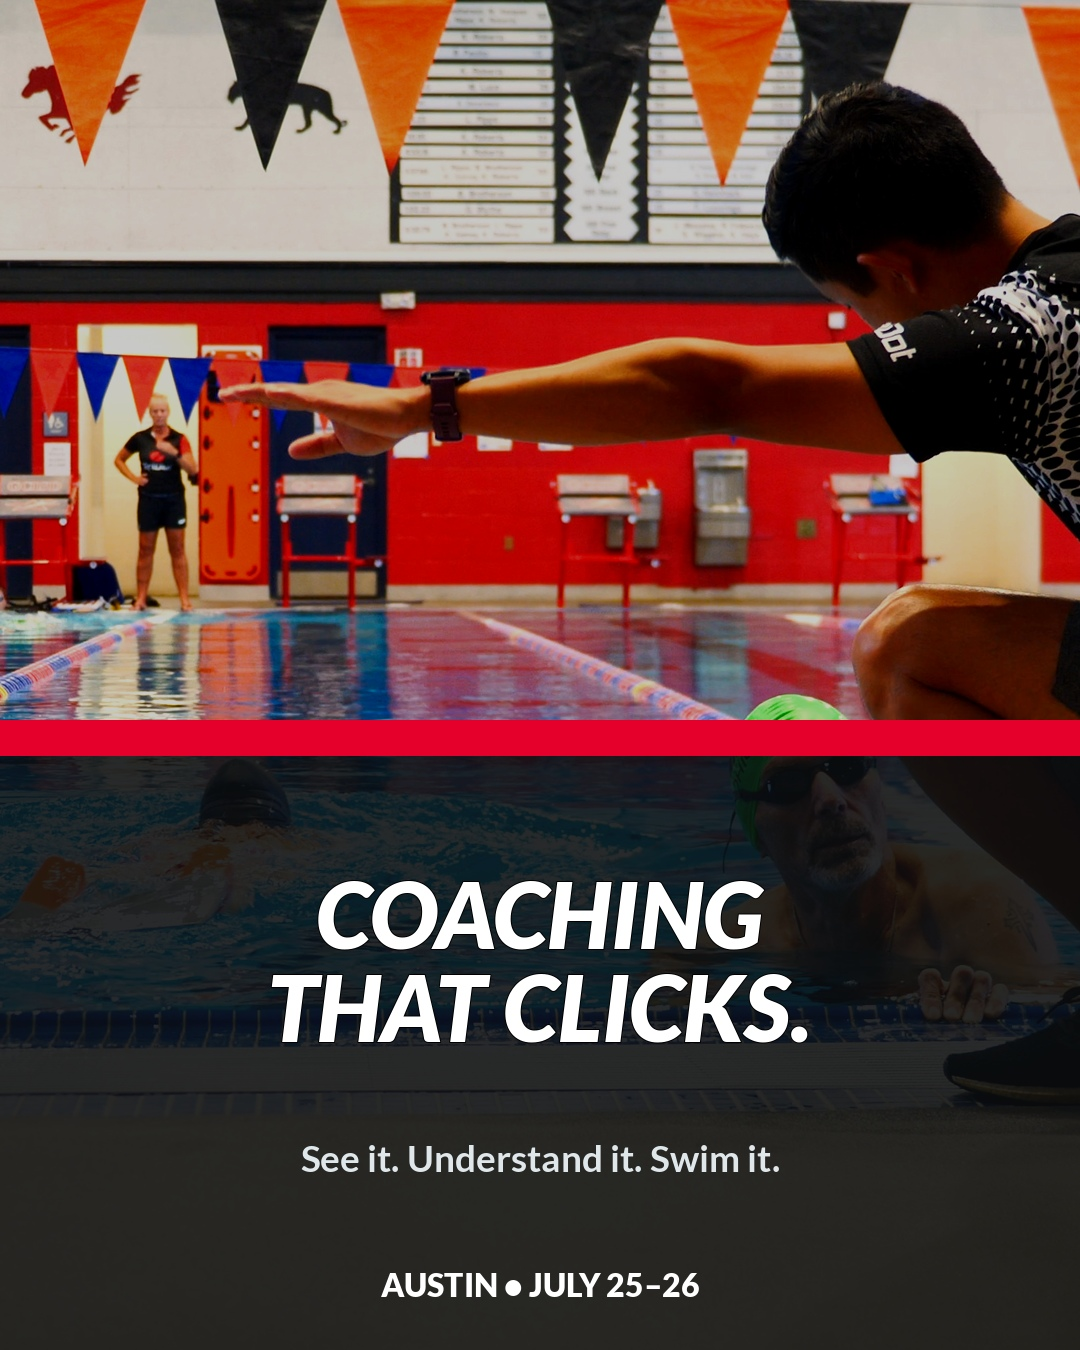
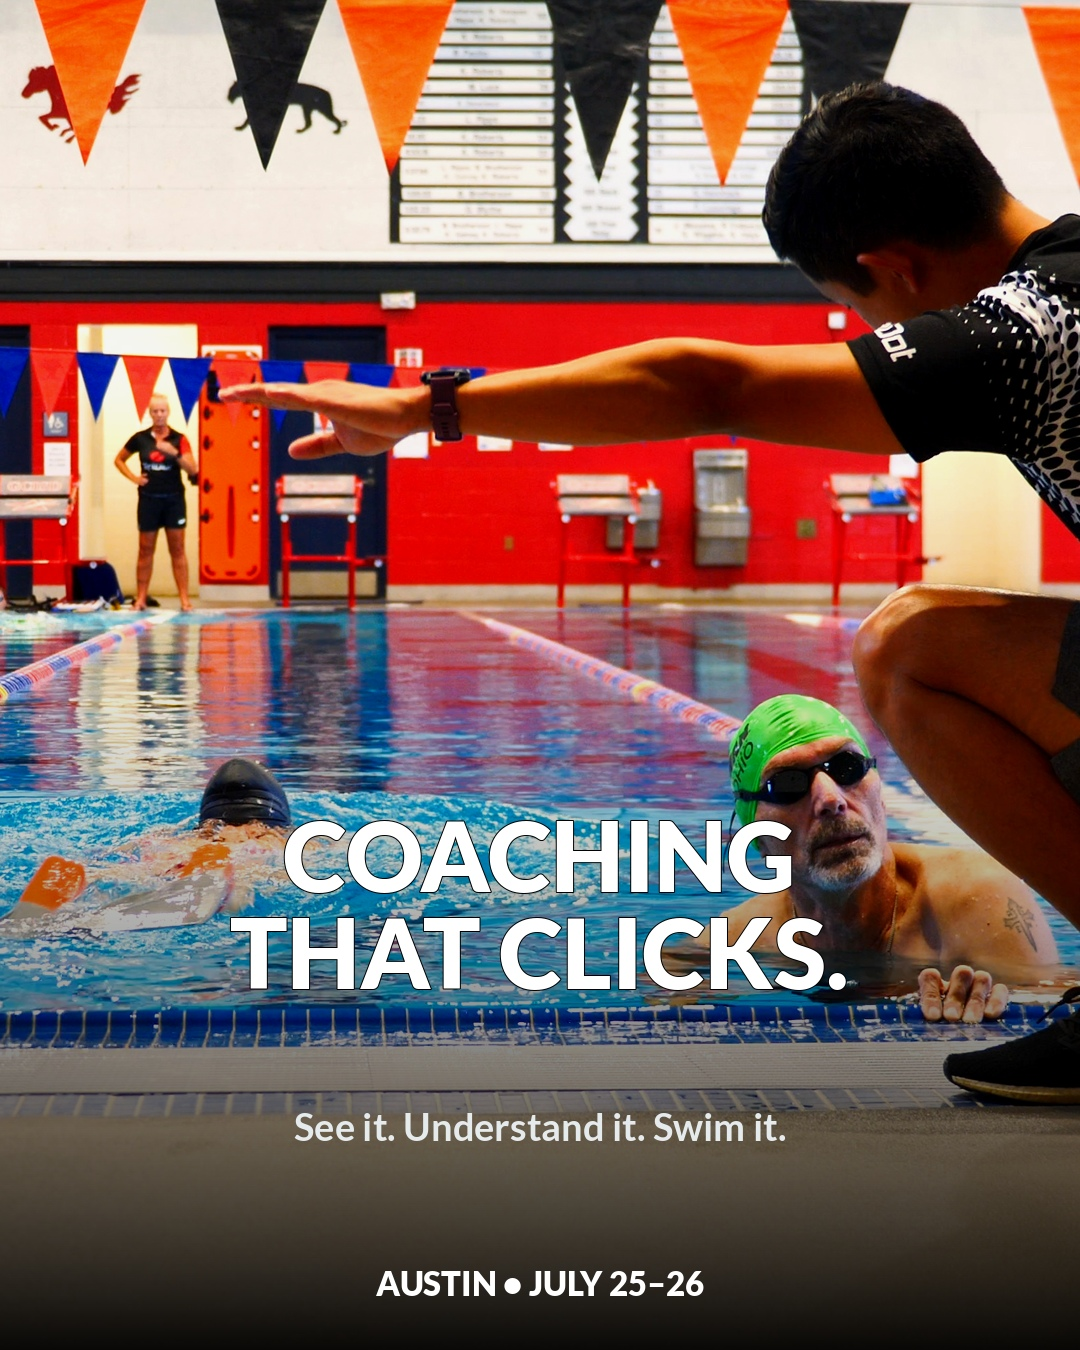
Refine Austin social graphics with natural dark gradients

diff --git a/austin-pool-school-review/index.html b/austin-pool-school-review/index.html
@@ -15,5 +15,5 @@ const posts=[
 ['08-detail-matters.jpg','VALUE','The details make the difference','Small technique changes can lead to meaningful progress. Get focused coaching and drills designed to help you apply it back in your own training.'],
 ['09-personal-feedback.jpg','VALUE','Real-time feedback','See it. Understand it. Practice it. Bring your swim questions to Austin and leave with practical tools for your next session.'],
 ['10-austin-register-now.jpg','EVENT PROMO','Austin Pool School: Register now','July 25–26, 2026 · Austin Aquatics and Sports Academy · $599\n\nYour next opportunity to break out of the dreaded swim plateau starts here. Register now.']
-];let i=0;const $=id=>document.getElementById(id);function render(){let p=posts[i];$('title').textContent=`Post ${i+1} of ${posts.length}`;$('graphic').src='./assets/'+p[0]+'?v=logo-free-20260710';$('headline').textContent=p[2];$('caption').textContent=p[3];$('type').textContent=p[1];$('prev').disabled=i===0;$('next').disabled=i===posts.length-1;$('thumbs').innerHTML=posts.map((x,n)=>`<button class="thumb ${n===i?'active':''}" aria-label="View post ${n+1}" onclick="go(${n})"><img src="./assets/${x[0]}?v=logo-free-20260710"></button>`).join('')};function go(n){i=n;render()}$('prev').onclick=()=>go(i-1);$('next').onclick=()=>go(i+1);document.addEventListener('keydown',e=>{if(e.key==='ArrowLeft'&&i)go(i-1);if(e.key==='ArrowRight'&&i<9)go(i+1)});render();
+];let i=0;const $=id=>document.getElementById(id);function render(){let p=posts[i];$('title').textContent=`Post ${i+1} of ${posts.length}`;$('graphic').src='./assets/'+p[0]+'?v=gradient-20260710';$('headline').textContent=p[2];$('caption').textContent=p[3];$('type').textContent=p[1];$('prev').disabled=i===0;$('next').disabled=i===posts.length-1;$('thumbs').innerHTML=posts.map((x,n)=>`<button class="thumb ${n===i?'active':''}" aria-label="View post ${n+1}" onclick="go(${n})"><img src="./assets/${x[0]}?v=gradient-20260710"></button>`).join('')};function go(n){i=n;render()}$('prev').onclick=()=>go(i-1);$('next').onclick=()=>go(i+1);document.addEventListener('keydown',e=>{if(e.key==='ArrowLeft'&&i)go(i-1);if(e.key==='ArrowRight'&&i<9)go(i+1)});render();
 </script></body></html>
